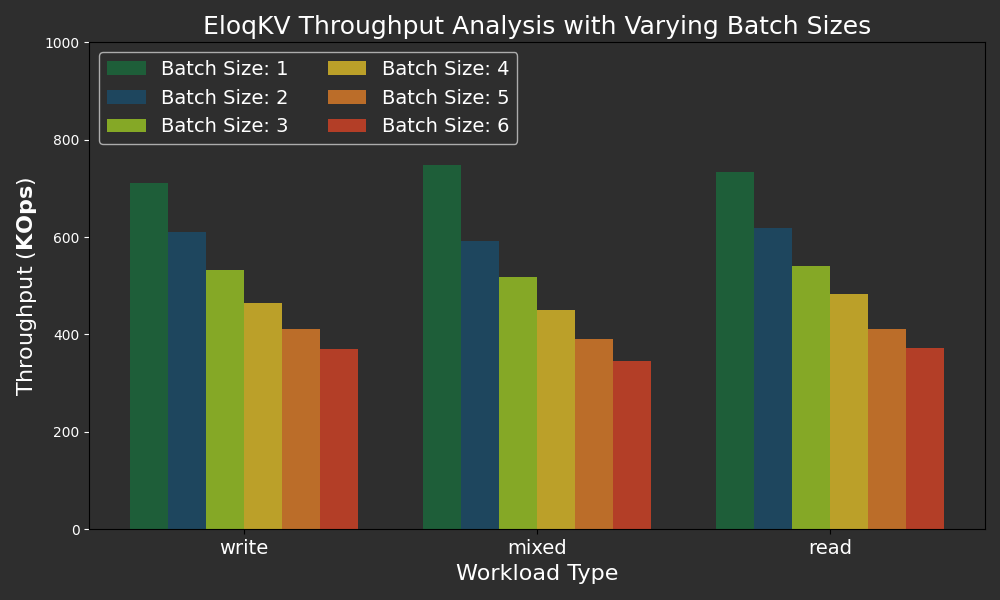
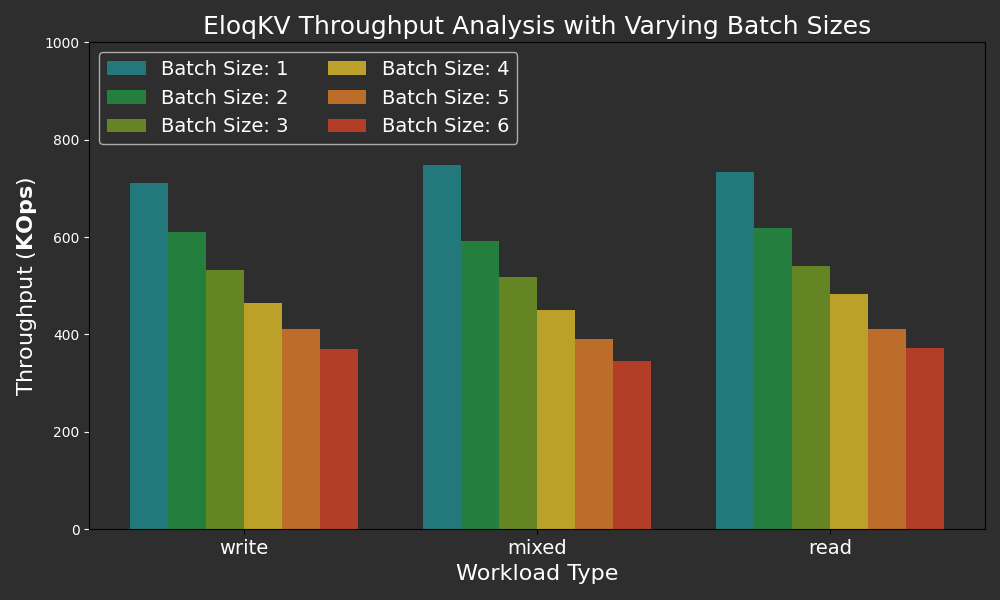
Update

diff --git a/website/blog/2024-09-01-benchmark-transaction/img/eloqkv_redis_batch_rr_dark.py b/website/blog/2024-09-01-benchmark-transaction/img/eloqkv_redis_batch_rr_dark.py
@@ -11,12 +11,18 @@ read_concurrency_levels = ['write', 'mixed', 'read']
 #dragonfly_read_throughput = [992.120,1529.612,1750.050, 1750.024]  # converted to K
 #eloqkv_read_throughput = [959.015,1405.901,1697.739,1593.660]
 #kvrocks_d1=[7.188,7.482,7.532]
-eloqkv_b1=[710.093, 748.217,733.441]
-eloqkv_b2=[609.558,591.177,619.505]
-eloqkv_b3=[531.852,518.649,541.366]
-eloqkv_b4=[464.404,450.643,482.582]
-eloqkv_b5=[411.768,389.826,411.803]
-eloqkv_b6=[369.556,345.931,373.184]
+redis_pipe=[103.329, 110.537, 117.767]
+redis_pipe_lat=[2.477, 2.316,2.172]
+redis_tx=[94.031,98.660,104.051]
+redis_tx_lat=[2.722,2.594,2.46]
+eloqkv1_rr_pipe=[410.322,392.491,419.997]
+eloqkv1_rr_pipe_lat=[]
+eloqkv1_rr_tx=[363.602,350.274,369.583]
+eloqkv1_rr_tx_lat=[]
+eloqkv3_rr_pipe=[173.894,162.583,206.246]
+eloqkv3_rr_pipe_lat=[]
+eloqkv3_rr_tx=[125.364,114.587,128.157]
+eloqkv3_rr_tx_lat=[]
 
 #redis_read_latency = [0.786,1.983,4.788,11.412]
 #dragonfly_read_latency = [0.252,0.444,0.956,2.191]
@@ -33,23 +39,23 @@ fig.patch.set_facecolor('#2e2e2e')  # Figure background color
 ax1.set_facecolor('#2e2e2e')  # Axes background color
 
 # Bar plots for read throughput
-bar_width = 0.13
+bar_width = 0.11
 index_read = np.arange(len(read_concurrency_levels))
 
-bar1_read = ax1.bar(index_read - 2.5*bar_width, eloqkv_b1, bar_width, alpha=0.8, color='#208B8E', label='Batch Size: 1')
-bar1_read = ax1.bar(index_read - 1.5*bar_width, eloqkv_b2, bar_width, alpha=0.8, color='#229443', label='Batch Size: 2')
-bar2_read = ax1.bar(index_read - 0.5*bar_width, eloqkv_b3, bar_width, alpha=0.8, color='#739C23', label='Batch Size: 3')
-bar3_read = ax1.bar(index_read + 0.5*bar_width, eloqkv_b4, bar_width, alpha=0.8, color='#E0BD28', label='Batch Size: 4')
-bar4_read = ax1.bar(index_read+ 1.5*bar_width, eloqkv_b5, bar_width, alpha=0.8, color='#E07D28', label='Batch Size: 5')
-bar4_read = ax1.bar(index_read+ 2.5*bar_width, eloqkv_b6, bar_width, alpha=0.8, color='#D64326', label='Batch Size: 6')
+bar1_read = ax1.bar(index_read - 2.9*bar_width, redis_pipe, bar_width, alpha=0.8, color='#1A6B3D', label='Redis Pipeline')
+bar1_read = ax1.bar(index_read - 1.9*bar_width, redis_tx, bar_width, alpha=0.8, color='#1A4D6B', label='Redis MultiExec')
+bar2_read = ax1.bar(index_read - 0.5*bar_width, eloqkv1_rr_pipe, bar_width, alpha=0.8, color='#9CC725', label='EloqKV*1 Pipeline')
+bar3_read = ax1.bar(index_read + 0.5*bar_width, eloqkv1_rr_tx, bar_width, alpha=0.8, color='#E0BD28', label='EloqKV*1 MultiExec')
+bar4_read = ax1.bar(index_read+ 1.9*bar_width, eloqkv3_rr_pipe, bar_width, alpha=0.8, color='#E07D28', label='EloqKV*3 Pipeline')
+bar4_read = ax1.bar(index_read+ 2.9*bar_width, eloqkv3_rr_tx, bar_width, alpha=0.8, color='#D64326', label='EloqKV*3 MultiExec')
 
 ax1.set_xlabel('Workload Type', color='white', fontsize=16)
 ax1.set_ylabel('Throughput ($\mathbf{KOps}$)', color='white', fontsize=16)
-ax1.set_title('EloqKV Throughput Analysis with Varying Batch Sizes', color='white', fontsize=18)
+ax1.set_title('EloqKV & Redis Batch Operation Comparison', color='white', fontsize=18)
 ax1.set_xticks(index_read)
 ax1.set_xticklabels(read_concurrency_levels, color='white', fontsize=14)
 ax1.tick_params(axis='y', colors='white')
-ax1.set_ylim(0, 1000)  # Adjust this value to leave more space at the top
+ax1.set_ylim(0, 600)  # Adjust this value to leave more space at the top
 #ax1.set_xlim(0, 800)  # Adjust this value to leave more space at the top
 
 # Latency data (line graph)
@@ -78,5 +84,5 @@ fig.tight_layout()
 # Show plot
 #plt.show()
 
-plt.savefig('eloqkv_batch_size.png')  # Saves the plot as 'my_plot.png' in the current directory
+plt.savefig('eloqkv_redis_batch_rr.png')  # Saves the plot as 'my_plot.png' in the current directory
 plt.close()

diff --git a/website/blog/2024-09-01-benchmark-transaction/index.md b/website/blog/2024-09-01-benchmark-transaction/index.md
@@ -46,7 +46,7 @@ In the following experiment, **EloqKV** operates in pure memory mode, with persi
 
 ### Experiment:
 
-We developed a new benchmarking tool, `eloq_benchmark`, specifically to test the transaction performance of Redis and EloqKV, as memtier_benchmark does not support `MultiExec`. You can download `eloq_benchmark` from [here](/blog/2024/08/25/benchmark-txlog).
+We developed a new benchmarking tool, `eloq_benchmark`, specifically to test the transaction performance of Redis and **EloqKV**, as memtier_benchmark does not support `MultiExec`. You can download `eloq_benchmark` from [here](/blog/2024/08/25/benchmark-txlog).
 
 We run `eloq_benchmark` with the following configuration:
 
@@ -66,7 +66,7 @@ eloq_benchmark --NumConnections=$conn -h $server_ip -p $server_port --GetRatio=$
 
 #### Results
 
-Below are the performance results of batch mode of Redis and EloqKV among various workload.
+Below are the performance results of batch mode of Redis and **EloqKV** among various workload. Note that the batch size is fixed at 6.
 
 X-axis: Represents the different workload types (read/write/mixed) used in the benchmark, simulating a range of real-world scenarios.
 
@@ -76,7 +76,7 @@ Y-axis: Throughput in Thousand OPS (Operations Per Second).
 <div style={{ width: '720px', textAlign: 'center'}}>
 import EnlargeableImage from '@site/src/pages/enlarge_pic';
 
-<EnlargeableImage src={require('./img/eloqkv_redis_batch.png').default} alt="EloqKV vs Redis Transaction" />
+<EnlargeableImage src={require('./img/eloqkv_redis_batch_rr.png').default} alt="EloqKV vs Redis Transaction" />
 
 </div></p>
 <!-- 
@@ -86,9 +86,31 @@ import EnlargeableImage from '@site/src/pages/enlarge_pic';
 </div>
 </p> -->
 
-The results demonstrate that EloqKV significantly outperforms Redis in both pipeline and MultiExec atomic modes on a single node. In this comparison, a fixed batch size of 6 keys was used, with EloqKV achieving a throughput exceeding 100 million operations per key in atomic mode. Although this throughput is lower than that in pipeline mode, it is sufficient for most workloads while preserving atomic se
-However, memory capacity can become a bottleneck, necessitating a cluster solution for handling larger datasets. Notably, Redis `MultiExec` is not supported in cluster mode if keys in a single batch are distributed across different shards. To work around this, users must use key `hashtags` to ensure all keys in a batch are located on the same shard, which can be cumbersome. EloqKV, on the other hand, does not have this limitation. It allows you to scale memory capacity seamlessly and maintain transactional integrity across a cluster, just as if you were operating on a single node.
+The results demonstrate that **EloqKV** significantly outperforms Redis in both pipeline and MultiExec atomic modes on a single node. With a fixed batch size of 6 keys, **EloqKV** achieves a throughput exceeding 200 million operations per key per second (KPS) in both modes, which is sufficient for most workloads while maintaining atomic semantics.
 
-It's worth mentioning that the throughput of a three-node EloqKV cluster is lower than that of a single-node EloqKV. This reduction is attributed to the additional network round trips and scheduling overhead introduced by automatic request redirection. We are actively working on optimizing network costs in future EloqKV releases.
+However, memory capacity can become a bottleneck, necessitating a cluster solution for handling larger datasets. Notably, Redis `MultiExec` is not supported in cluster mode if keys in a single batch are distributed across different shards. To work around this, users must use key `hashtags` to ensure all keys in a batch are located on the same shard, which can be cumbersome. **EloqKV**, on the other hand, does not have this limitation. It allows you to scale memory capacity seamlessly and maintain transactional integrity across a cluster, just as if you were operating on a single node.
 
-### Analysis and Conclusion
+It's worth mentioning that the throughput of a three-node **EloqKV** cluster is lower than that of a single-node **EloqKV**. This reduction is attributed to the additional network round trips and scheduling overhead introduced by automatic request redirection. We are actively working on optimizing network costs in future **EloqKV** releases.
+
+### Evaluate the Impact of Batch Size
+
+Next, we will run `eloq_benchmark` with batch sizes ranging from 1 to 6. In this benchmark, we configure EloqKV's transaction isolation level to RepeatableRead as well. This setup requires each Get operation in the MultiExec batch to acquire a read intent and undergo validation during the transaction commit phase.
+
+#### Result
+
+Below are the performance results of **EloqKV** `Multi Exec` command with different batch size among various workload.
+
+X-axis: Represents the different workload types (read/write/mixed) used in the benchmark, simulating a range of real-world scenarios.
+
+Y-axis: Throughput in Thousand OPS (Operations Per Second).
+
+<p align="center">
+<div style={{ width: '720px', textAlign: 'center'}}>
+
+<EnlargeableImage src={require('./img/eloqkv_batch_size.png').default} alt="EloqKV vs Redis Transaction" />
+
+</div></p>
+
+The results show that **EloqKV**’s throughput decreases as the batch size increases. This is because larger batch sizes introduce additional transaction overhead. For read requests, each key must be read and then validated during the transaction commit phase to ensure that RepeatableRead isolation is maintained. For write requests, a write lock must be acquired for each key and then released, along with updating the value during the transaction commit phase. Although the throughput per MultiExec command declines with larger batch sizes, the total keys processed per second (KPS) increases. For instance, with a batch size of 1, the KPS is 700,000, while with a batch size of 6, it rises to 2 million.
+
+In conclusion, despite the increased overhead associated with larger batch sizes, **EloqKV** demonstrates improved overall throughput efficiency, as evidenced by the significant rise in KPS.

diff --git a/website/blog/2024-08-17-benchmark-single-node/index.md b/website/blog/2024-08-17-benchmark-single-node/index.md
@@ -21,7 +21,7 @@ Server Machine:
 
 | Service            | Node type    | Node count |
 | ------------------ | ------------ | ---------- |
-| Redis 6.0.16       | c7g.8xlarge  | 1          |
+| Redis 7.2.5        | c7g.8xlarge  | 1          |
 | DragonflyDB 1.21.2 | c7g.8xlarge  | 1          |
 | EloqKV 0.6.9       | c7g.8xlarge  | 1          |
 | Client - Memtier   | c6gn.8xlarge | 1          |
